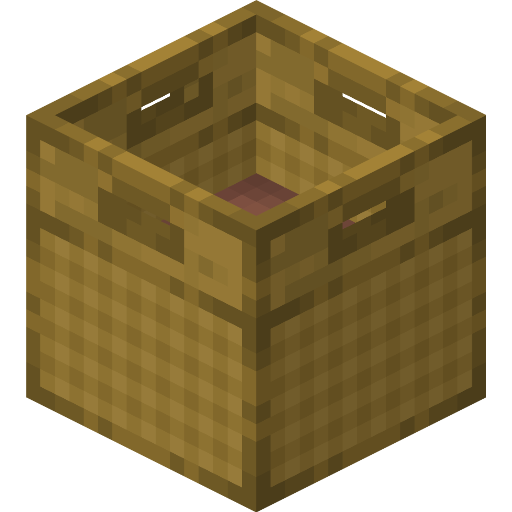
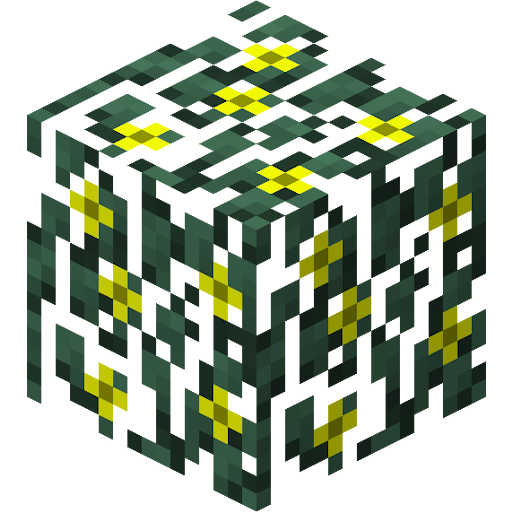
Version 1.0

diff --git a/src/main/java/horiuchi/floweringleaves/mixin/BlockLogicLeavesMixin.java b/src/main/java/horiuchi/floweringleaves/mixin/BlockLogicLeavesMixin.java
@@ -1,0 +1,93 @@
+package horiuchi.floweringleaves.mixin;
+
+import horiuchi.floweringleaves.LeavesFlowerUtil;
+import net.minecraft.core.block.*;
+import net.minecraft.core.block.entity.TileEntity;
+import net.minecraft.core.block.material.Material;
+import net.minecraft.core.entity.player.Player;
+import net.minecraft.core.enums.EnumBlockSoundEffectType;
+import net.minecraft.core.enums.EnumDropCause;
+import net.minecraft.core.item.ItemStack;
+import net.minecraft.core.util.helper.Side;
+import net.minecraft.core.world.World;
+import org.spongepowered.asm.mixin.Mixin;
+import org.spongepowered.asm.mixin.injection.At;
+import org.spongepowered.asm.mixin.injection.Inject;
+import org.spongepowered.asm.mixin.injection.callback.CallbackInfoReturnable;
+
+@Mixin(BlockLogicLeavesBase.class)
+public abstract class BlockLogicLeavesMixin extends BlockLogic {
+	public BlockLogicLeavesMixin(Block<?> block, Material material) {
+		super(block, material);
+	}
+
+	@Inject(method = "getBreakResult", at = @At(value = "RETURN"), cancellable = true)
+	public void getBreakResultMixin(World world, EnumDropCause dropCause, int meta, TileEntity tileEntity, CallbackInfoReturnable<ItemStack[]> cir)
+	{
+		LeavesFlowerUtil.LeafFlower currentFlower = LeavesFlowerUtil.getLeavesFlower(meta);
+		if(currentFlower == LeavesFlowerUtil.LeafFlower.NONE)
+			return;
+
+		ItemStack[] originalReturn = cir.getReturnValue();
+		ItemStack flowerBlock = new ItemStack(LeavesFlowerUtil.FLOWER_TO_ITEM.get(currentFlower), 1, 0);
+
+		if (originalReturn == null)
+		{
+			cir.setReturnValue(new ItemStack[]{flowerBlock});
+		}
+		else
+		{
+			ItemStack[] newReturn = new ItemStack[cir.getReturnValue().length + 1];
+			newReturn[cir.getReturnValue().length] = flowerBlock;
+			System.arraycopy(cir.getReturnValue(), 0, newReturn, 0, cir.getReturnValue().length);
+			cir.setReturnValue(newReturn);
+		}
+	}
+
+	public boolean onBlockRightClicked(World world, int x, int y, int z, Player player, Side side, double xPlaced, double yPlaced)
+	{
+		ItemStack heldItem = player.getHeldItem();
+		LeavesFlowerUtil.LeafFlower currentFlower = LeavesFlowerUtil.getLeavesFlower(world.getBlockMetadata(x, y, z));
+
+		if (heldItem == null) // If the leaves block has a flower, drop it
+		{
+			if(currentFlower == LeavesFlowerUtil.LeafFlower.NONE)
+				return false;
+
+			world.setBlockAndMetadataWithNotify(x, y, z, world.getBlockId(x, y, z), LeavesFlowerUtil.setLeavesFlower(world.getBlockMetadata(x, y, z), LeavesFlowerUtil.LeafFlower.NONE));
+			if (player != null) {
+				world.playSoundAtEntity(player, player, "item.pickup", 1.0F, 1.0F);
+			}
+			if (!world.isClientSide)
+			{
+				world.dropItem(x, y, z, new ItemStack(LeavesFlowerUtil.FLOWER_TO_ITEM.get(currentFlower), 1, 0));
+			}
+			return true;
+		}
+		else // Attempt to consume the flower and set metadata
+		{
+			LeavesFlowerUtil.LeafFlower newFlower = LeavesFlowerUtil.ITEM_TO_FLOWER.getOrDefault(heldItem.itemID, LeavesFlowerUtil.LeafFlower.NONE);
+
+			// If we don't have a valid flower in hand, or we already have this flower on the leaves, cancel
+			if (newFlower == LeavesFlowerUtil.LeafFlower.NONE || newFlower == currentFlower)
+				return false;
+
+			// If the leaves block has a flower, drop it
+			if (!world.isClientSide && currentFlower != LeavesFlowerUtil.LeafFlower.NONE)
+			{
+				world.dropItem(x, y, z, new ItemStack(LeavesFlowerUtil.FLOWER_TO_ITEM.get(currentFlower), 1, 0));
+			}
+
+			// Consume and set metadata
+			heldItem.consumeItem(player);
+			world.playBlockSoundEffect(player, (double)((float)x + 0.5F), (double)((float)y + 0.5F), (double)((float)z + 0.5F), this.block, EnumBlockSoundEffectType.PLACE);
+			int meta = world.getBlockMetadata(x, y, z);
+			meta = LeavesFlowerUtil.setLeavesFlower(meta, newFlower);
+			meta = BlockLogicLeavesBase.setDecaying(meta, false);
+			meta = BlockLogicLeavesBase.setPermanent(meta, true);
+			world.setBlockAndMetadataWithNotify(x, y, z, world.getBlockId(x, y, z), meta);
+			return true;
+		}
+	}
+}
+

diff --git a/src/main/java/horiuchi/floweringleaves/mixin/BlockModelLeavesMixin.java b/src/main/java/horiuchi/floweringleaves/mixin/BlockModelLeavesMixin.java
@@ -1,0 +1,50 @@
+package horiuchi.floweringleaves.mixin;
+
+import com.google.common.collect.ImmutableMap;
+import horiuchi.floweringleaves.LeavesFlowerUtil;
+import net.minecraft.client.render.block.model.BlockModelLeaves;
+import net.minecraft.client.render.block.model.BlockModelStandard;
+import net.minecraft.client.render.tessellator.Tessellator;
+import net.minecraft.client.render.texture.stitcher.IconCoordinate;
+import net.minecraft.client.render.texture.stitcher.TextureRegistry;
+import net.minecraft.core.block.Block;
+import net.minecraft.core.block.BlockLogic;
+import net.minecraft.core.block.Blocks;
+import org.spongepowered.asm.mixin.Mixin;
+import org.spongepowered.asm.mixin.Unique;
+
+import java.util.Map;
+
+@Mixin(BlockModelLeaves.class)
+public class BlockModelLeavesMixin<T extends BlockLogic> extends BlockModelStandard<T> {
+	private static final Map<LeavesFlowerUtil.LeafFlower, IconCoordinate> FLOWER_TO_TEXTURE = ImmutableMap.of(
+		LeavesFlowerUtil.LeafFlower.YELLOW, TextureRegistry.getTexture("floweringleaves:block/leaves/yellow_flowering_overlay"),
+		LeavesFlowerUtil.LeafFlower.RED, TextureRegistry.getTexture("floweringleaves:block/leaves/red_flowering_overlay"),
+		LeavesFlowerUtil.LeafFlower.PINK, TextureRegistry.getTexture("floweringleaves:block/leaves/pink_flowering_overlay"),
+		LeavesFlowerUtil.LeafFlower.PURPLE, TextureRegistry.getTexture("floweringleaves:block/leaves/purple_flowering_overlay"),
+		LeavesFlowerUtil.LeafFlower.LIGHT_BLUE, TextureRegistry.getTexture("floweringleaves:block/leaves/lightblue_flowering_overlay"),
+		LeavesFlowerUtil.LeafFlower.ORANGE, TextureRegistry.getTexture("floweringleaves:block/leaves/orange_flowering_overlay")
+	);
+
+	public BlockModelLeavesMixin(Block<T> block) {
+		super(block);
+	}
+
+	public boolean render(Tessellator tessellator, int x, int y, int z) {
+		super.render(tessellator, x, y, z);
+
+		if (renderBlocks.blockAccess.getBlockId(x, y, z) == Blocks.LEAVES_CACAO.id())
+			return true;
+
+		LeavesFlowerUtil.LeafFlower flower = LeavesFlowerUtil.getLeavesFlower(renderBlocks.blockAccess.getBlockMetadata(x, y, z));
+
+		if (flower != LeavesFlowerUtil.LeafFlower.NONE)
+		{
+			renderBlocks.overrideBlockTexture = FLOWER_TO_TEXTURE.get(flower);
+			this.renderStandardBlock(tessellator, this.block.getBoundsRaw(), x, y, z, 1.0F, 1.0F, 1.0F);
+		}
+
+		renderBlocks.overrideBlockTexture = null;
+		return true;
+	}
+}

diff --git a/src/main/java/horiuchi/floweringleaves/LeavesFlowerUtil.java b/src/main/java/horiuchi/floweringleaves/LeavesFlowerUtil.java
@@ -1,0 +1,52 @@
+package horiuchi.floweringleaves;
+
+import com.google.common.collect.ImmutableMap;
+import net.minecraft.client.render.texture.stitcher.IconCoordinate;
+import net.minecraft.client.render.texture.stitcher.TextureRegistry;
+import net.minecraft.core.block.Blocks;
+
+import java.util.Map;
+
+public class LeavesFlowerUtil {
+	public static final int MASK_FLOWER = 0b11100000;
+	public static final int SHIFT_FLOWER = 5;
+
+	public enum LeafFlower {
+		NONE,
+		YELLOW,
+		RED,
+		PINK,
+		PURPLE,
+		LIGHT_BLUE,
+		ORANGE,
+		UNUSED
+	}
+
+	public static final Map<Integer, LeafFlower> ITEM_TO_FLOWER = ImmutableMap.of(
+		Blocks.FLOWER_YELLOW.id(), LeafFlower.YELLOW,
+		Blocks.FLOWER_RED.id(), LeafFlower.RED,
+		Blocks.FLOWER_PINK.id(), LeafFlower.PINK,
+		Blocks.FLOWER_PURPLE.id(), LeafFlower.PURPLE,
+		Blocks.FLOWER_LIGHT_BLUE.id(), LeafFlower.LIGHT_BLUE,
+		Blocks.FLOWER_ORANGE.id(), LeafFlower.ORANGE
+	);
+
+	public static final Map<LeafFlower, Integer> FLOWER_TO_ITEM = ImmutableMap.of(
+		LeafFlower.YELLOW, Blocks.FLOWER_YELLOW.id(),
+		LeafFlower.RED, Blocks.FLOWER_RED.id(),
+		LeafFlower.PINK, Blocks.FLOWER_PINK.id(),
+		LeafFlower.PURPLE, Blocks.FLOWER_PURPLE.id(),
+		LeafFlower.LIGHT_BLUE, Blocks.FLOWER_LIGHT_BLUE.id(),
+		LeafFlower.ORANGE, Blocks.FLOWER_ORANGE.id()
+	);
+
+	public static LeafFlower getLeavesFlower(int meta) {
+		return LeafFlower.values()[(meta & MASK_FLOWER) >> SHIFT_FLOWER];
+	}
+
+	public static int setLeavesFlower(int meta, LeafFlower flower) {
+		meta &= ~MASK_FLOWER;
+		meta |= (flower.ordinal() << SHIFT_FLOWER) & MASK_FLOWER;
+		return meta;
+	}
+}

diff --git a/src/main/java/horiuchi/floweringleaves/FloweringLeavesMod.java b/src/main/java/horiuchi/floweringleaves/FloweringLeavesMod.java
@@ -1,4 +1,4 @@
-package turniplabs.examplemod;
+package horiuchi.floweringleaves;
 
 import net.fabricmc.api.ModInitializer;
 import org.slf4j.Logger;
@@ -6,13 +6,11 @@ import org.slf4j.LoggerFactory;
 import turniplabs.halplibe.util.GameStartEntrypoint;
 import turniplabs.halplibe.util.RecipeEntrypoint;
 
-public class ExampleMod implements ModInitializer, RecipeEntrypoint, GameStartEntrypoint {
-	public static final String MOD_ID = "examplemod";
+public class FloweringLeavesMod implements ModInitializer, RecipeEntrypoint, GameStartEntrypoint {
+	public static final String MOD_ID = "floweringleaves";
 	public static final Logger LOGGER = LoggerFactory.getLogger(MOD_ID);
 	@Override
-	public void onInitialize() {
-		LOGGER.info("ExampleMod initialized.");
-	}
+	public void onInitialize() {}
 
 	@Override
 	public void onRecipesReady() {}
